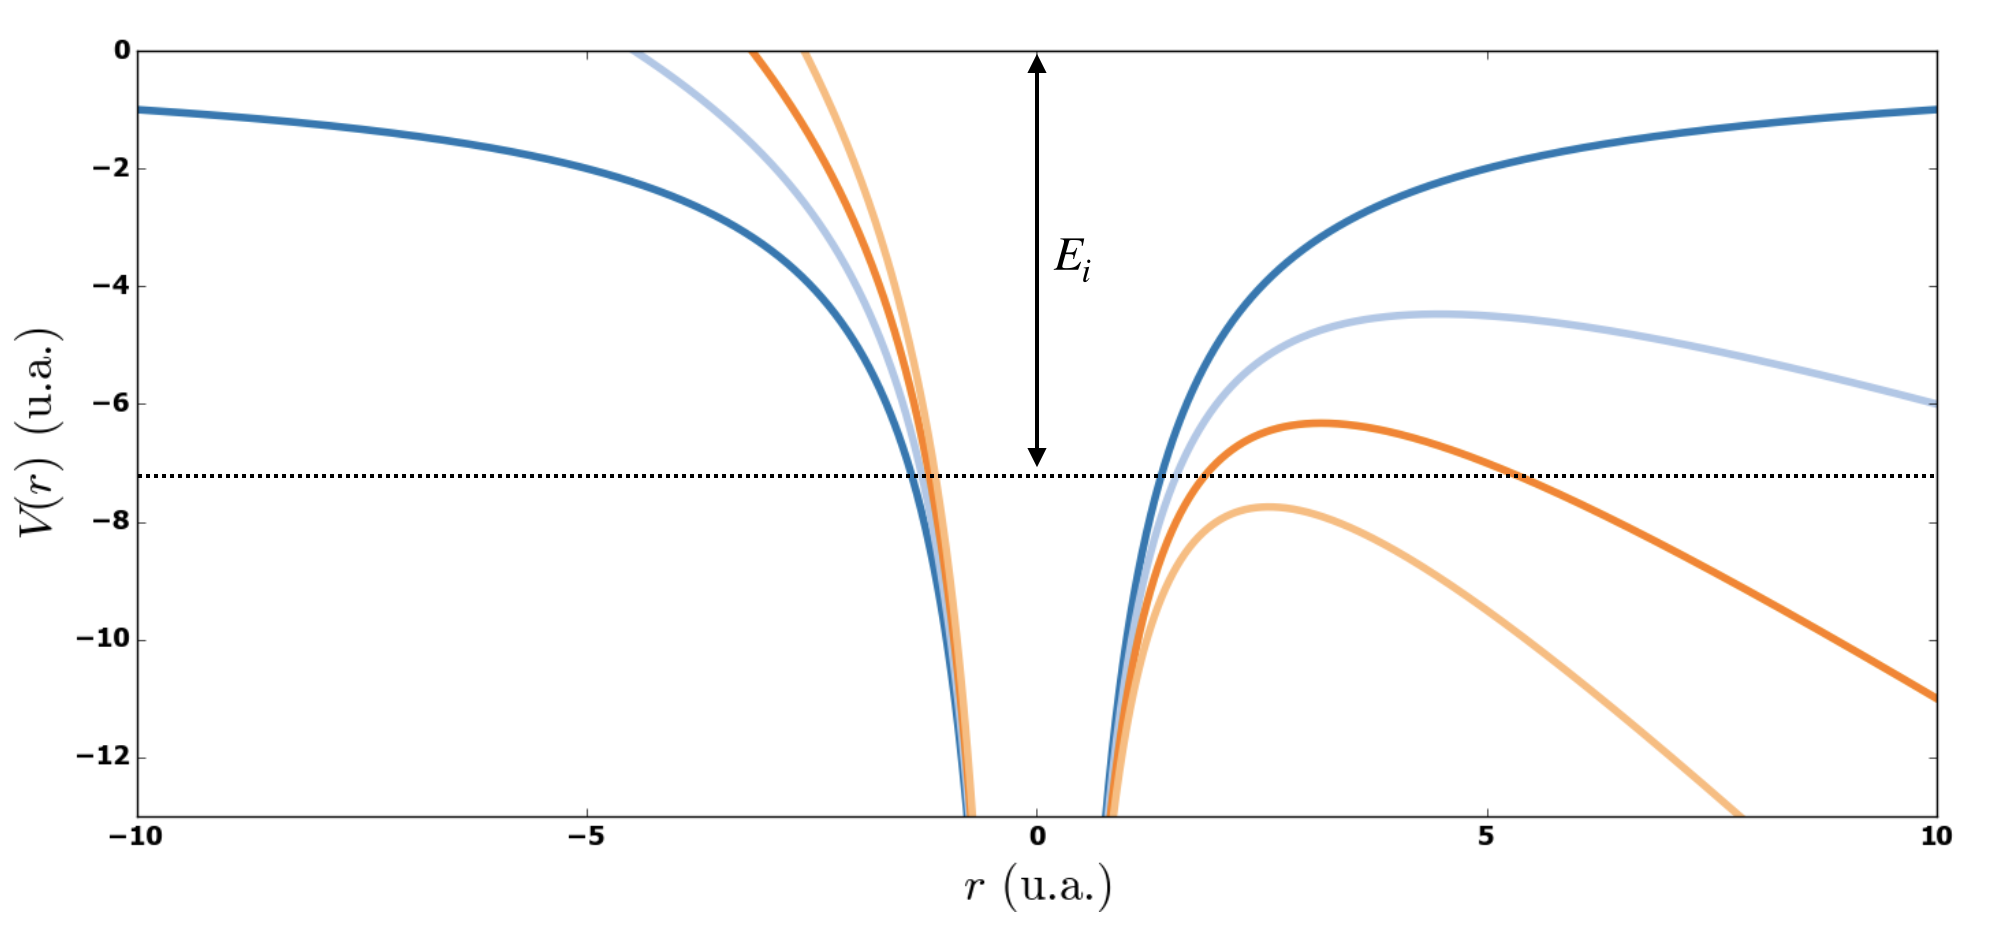
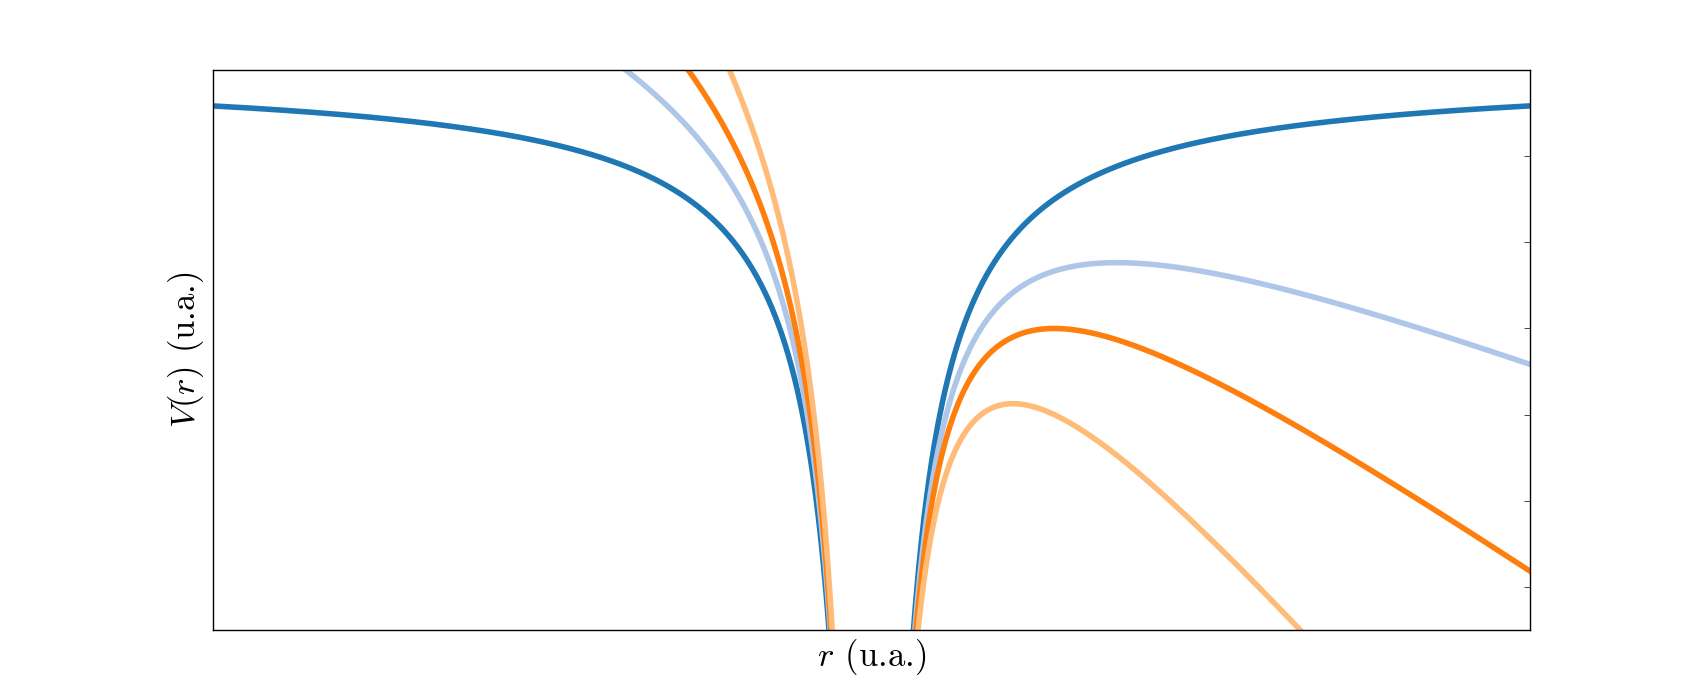
Changed barrier suppression pic

diff --git a/LaserPlasmaAcc/SimpleFigures.py b/LaserPlasmaAcc/SimpleFigures.py
@@ -181,7 +181,7 @@ my_path = "C:\Users\\vernier\PycharmProjects\octo-elective\\"
 #    COULOMB POTENTIAL                       #
 # ############################################
 
-rmax = 10.
+rmax = 12.
 rmin = 0.6
 rnum = 1000
 rstep = rmax/rnum
@@ -198,7 +198,7 @@ ax1 = fig.add_subplot(111)
 def coulomb(r, alpha_2):
     return -alpha_1/m.sqrt(m.pow(r, 2)) - alpha_2*r
 
-a2_arr = [0., 0.5, 1., 1.5, 2., 2.5]
+a2_arr = [0., 0.5, 0.9, 1.5, 1.8, 2., 2.5]
 for ii in range(0, 4):
     a2 = a2_arr[ii]
     c_p = [coulomb(r, a2) for r in r_array]
@@ -208,6 +208,20 @@ ax1.set_xlim(-rmax, rmax)
 ax1.set_ylim(-13, 0)
 ax1.set_xlabel('$r\,\mathrm{(u.a.)}$', fontsize=25)
 ax1.set_ylabel('$V(r)\,\mathrm{(u.a.)}$', fontsize=25)
+plt.tick_params(
+    axis='x',          # changes apply to the x-axis
+    which='both',      # both major and minor ticks are affected
+    bottom=False,      # ticks along the bottom edge are off
+    top=False,         # ticks along the top edge are off
+    left=False,
+    labelbottom=False) # labels along the bottom edge are off
+plt.tick_params(
+    axis='y',          # changes apply to the x-axis
+    which='both',      # both major and minor ticks are affected
+    bottom=False,      # ticks along the bottom edge are off
+    top=False,         # ticks along the top edge are off
+    left=False,
+    labelleft=False) # labels along the bottom edge are off
 #ax1.legend(loc='lower left')
 #plt.show()
 #plt.tight_layout()
